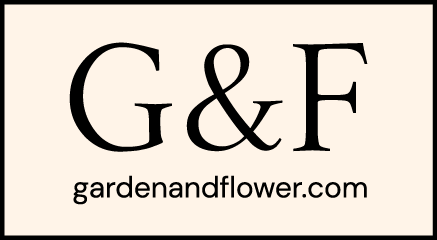
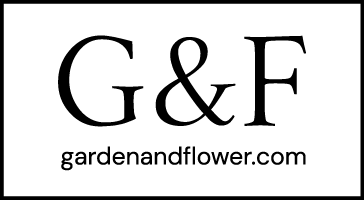
Global changes

diff --git a/project-dl.html b/project-dl.html
@@ -95,7 +95,7 @@
             <section class="ts-block pb-0">
                 <div class="container">
 
-                    <div class="ts-title">
+                    <!-- <div class="ts-title">
                         <h2>Description</h2>
                     </div>
 
@@ -117,12 +117,12 @@
                                 <dt>Date</dt>
                                 <dd>03-12-2016</dd>
                             </dl>
-                        </div>
+                        </div> -->
 
-                        <div class="col-md-8">
-                            <img src="assets/img/dl- (3).jpeg" class="img-fluid mb-5" alt="" data-animate="ts-fadeInUp">
-                            <img src="assets/img/dl- (4).jpg" class="img-fluid mb-5" alt="" data-animate="ts-fadeInUp">
-                            <img src="assets/img/dl- (5).jpg" class="img-fluid mb-5" alt="" data-animate="ts-fadeInUp">
+                        <div class="col-sm-12 ">
+                            <img src="assets/img/dl- (3).jpeg" class="img-fluid mb-5 full-width" alt="" data-animate="ts-fadeInUp">
+                            <img src="assets/img/dl- (4).jpg" class="img-fluid mb-5 full-width" alt="" data-animate="ts-fadeInUp">
+                            <img src="assets/img/dl- (5).jpg" class="img-fluid mb-5 full-width" alt="" data-animate="ts-fadeInUp">
                         </div>
 
                     </div>

diff --git a/assets/css/style.css b/assets/css/style.css
@@ -185,21 +185,19 @@ h4, .ts-h4 {
 
 .subhead {
     margin-top: 6vh;
-    color: #000;
+    text-shadow: 0px 0px 30px rgba(0, 0, 0, 1);
 }
 
 @media (max-width: 74.9rem) {
     #head {
         font-size: 1.6rem;
         padding: 5vw;
-        color: white;
     }
     h2 {
         font-size: 1.4rem;
     }
     .subhead {
         font-size: 1.1rem;
-        color: white;
     }
 }
 
@@ -645,6 +643,10 @@ B. Helpers
 /*-------------------------------------------
   -- Background
 -------------------------------------------*/
+
+.full-width {
+    width: 100%;
+}
 
 [data-bg-image] {
     background-size: cover;
@@ -1421,7 +1423,7 @@ section {
 .coming-soon {
     padding-top: 8rem;
     padding-bottom: 8rem;
-    background-color: #FFF4E8;
+    background-color: #fff;
 }
 
 /*-------------------------------------------
@@ -2469,8 +2471,12 @@ body.has-loading-screen.loading-done #brand-navigation {
     background-color: #000;
 }
 
-#ts-hero .ts-background-image {
-    background-position: top center;
+#ts-hero {
+    background-image: url('../img/bg.jpg'); 
+    background-size: cover;
+    background-repeat: no-repeat; 
+    background-color: #fff; 
+    background-position: center;
 }
 
 /*-------------------------------------------

diff --git a/index.html b/index.html
@@ -58,12 +58,12 @@
         ================================================================================================================
         ================================================================================================================
         -->
-        <header id="ts-hero" class="ts-height--100vh ts-has-overlay text-center text-black"  style="background-image: url(assets/img/bg-md.jpg); background-size: cover; background-repeat: no-repeat; background-color: #FFF4E8;">
+        <header id="ts-hero" class="ts-height--100vh ts-has-overlay text-center text-white">
 
             <div class="container">
                 <div data-animate="ts-fadeInDown" data-ts-delay="0.1s" class="">
                     <span class="wrapper">
-                        <span><img class="img-fluid" style="height: 120px; margin-bottom: 120px;" src="assets/img/gnf-light.png" alt="brand"></span>
+                        <span><img class="img-fluid" style="height: 120px; margin-bottom: 120px;" src="assets/img/gnf.png" alt="brand"></span>
                     </span>
                 </div>
                 <h2 data-animate="ts-reveal" id="head">
